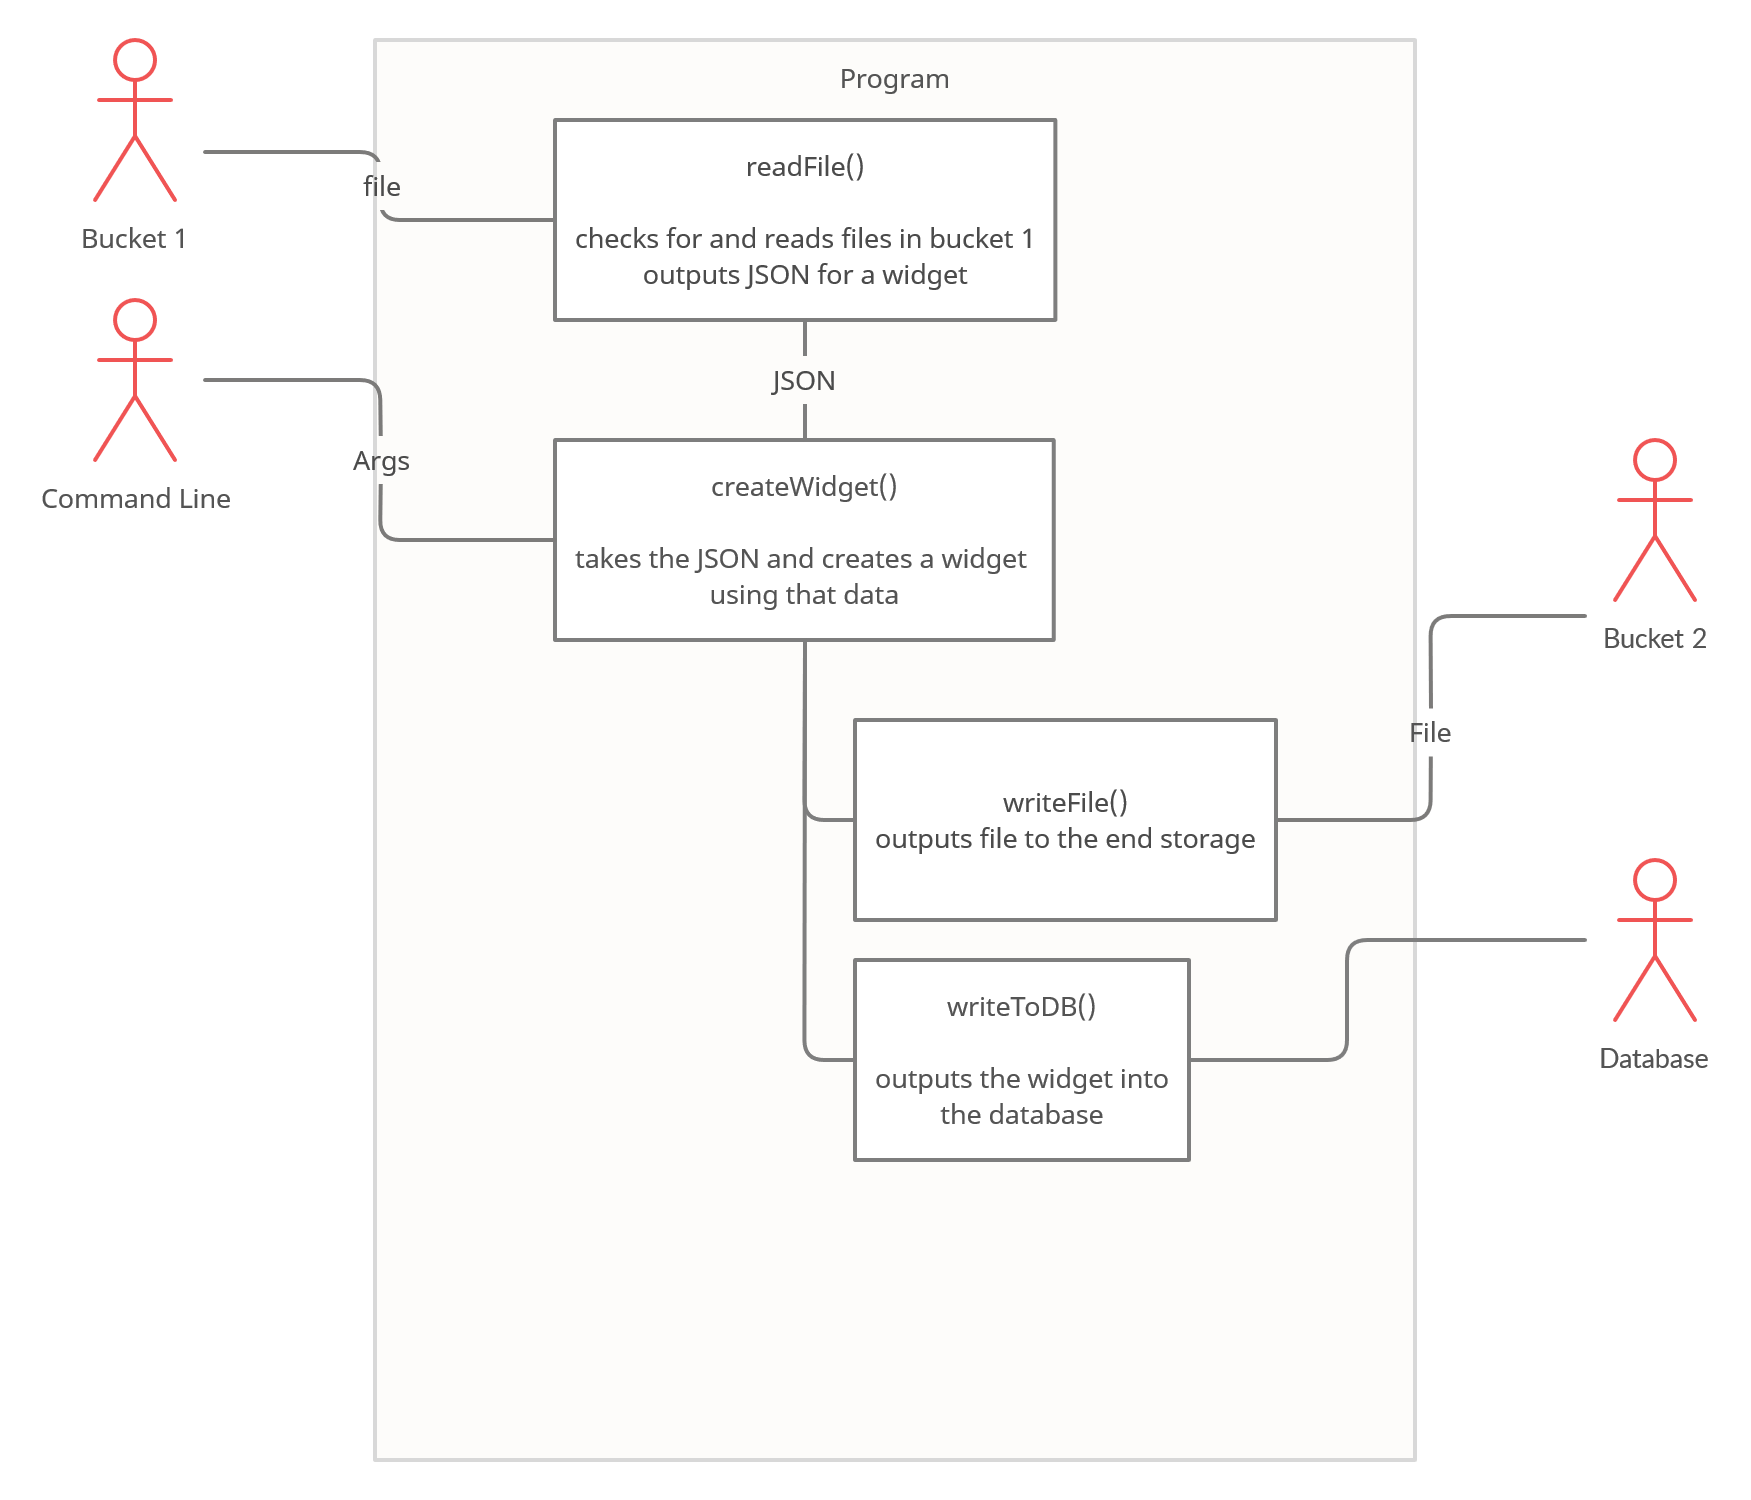
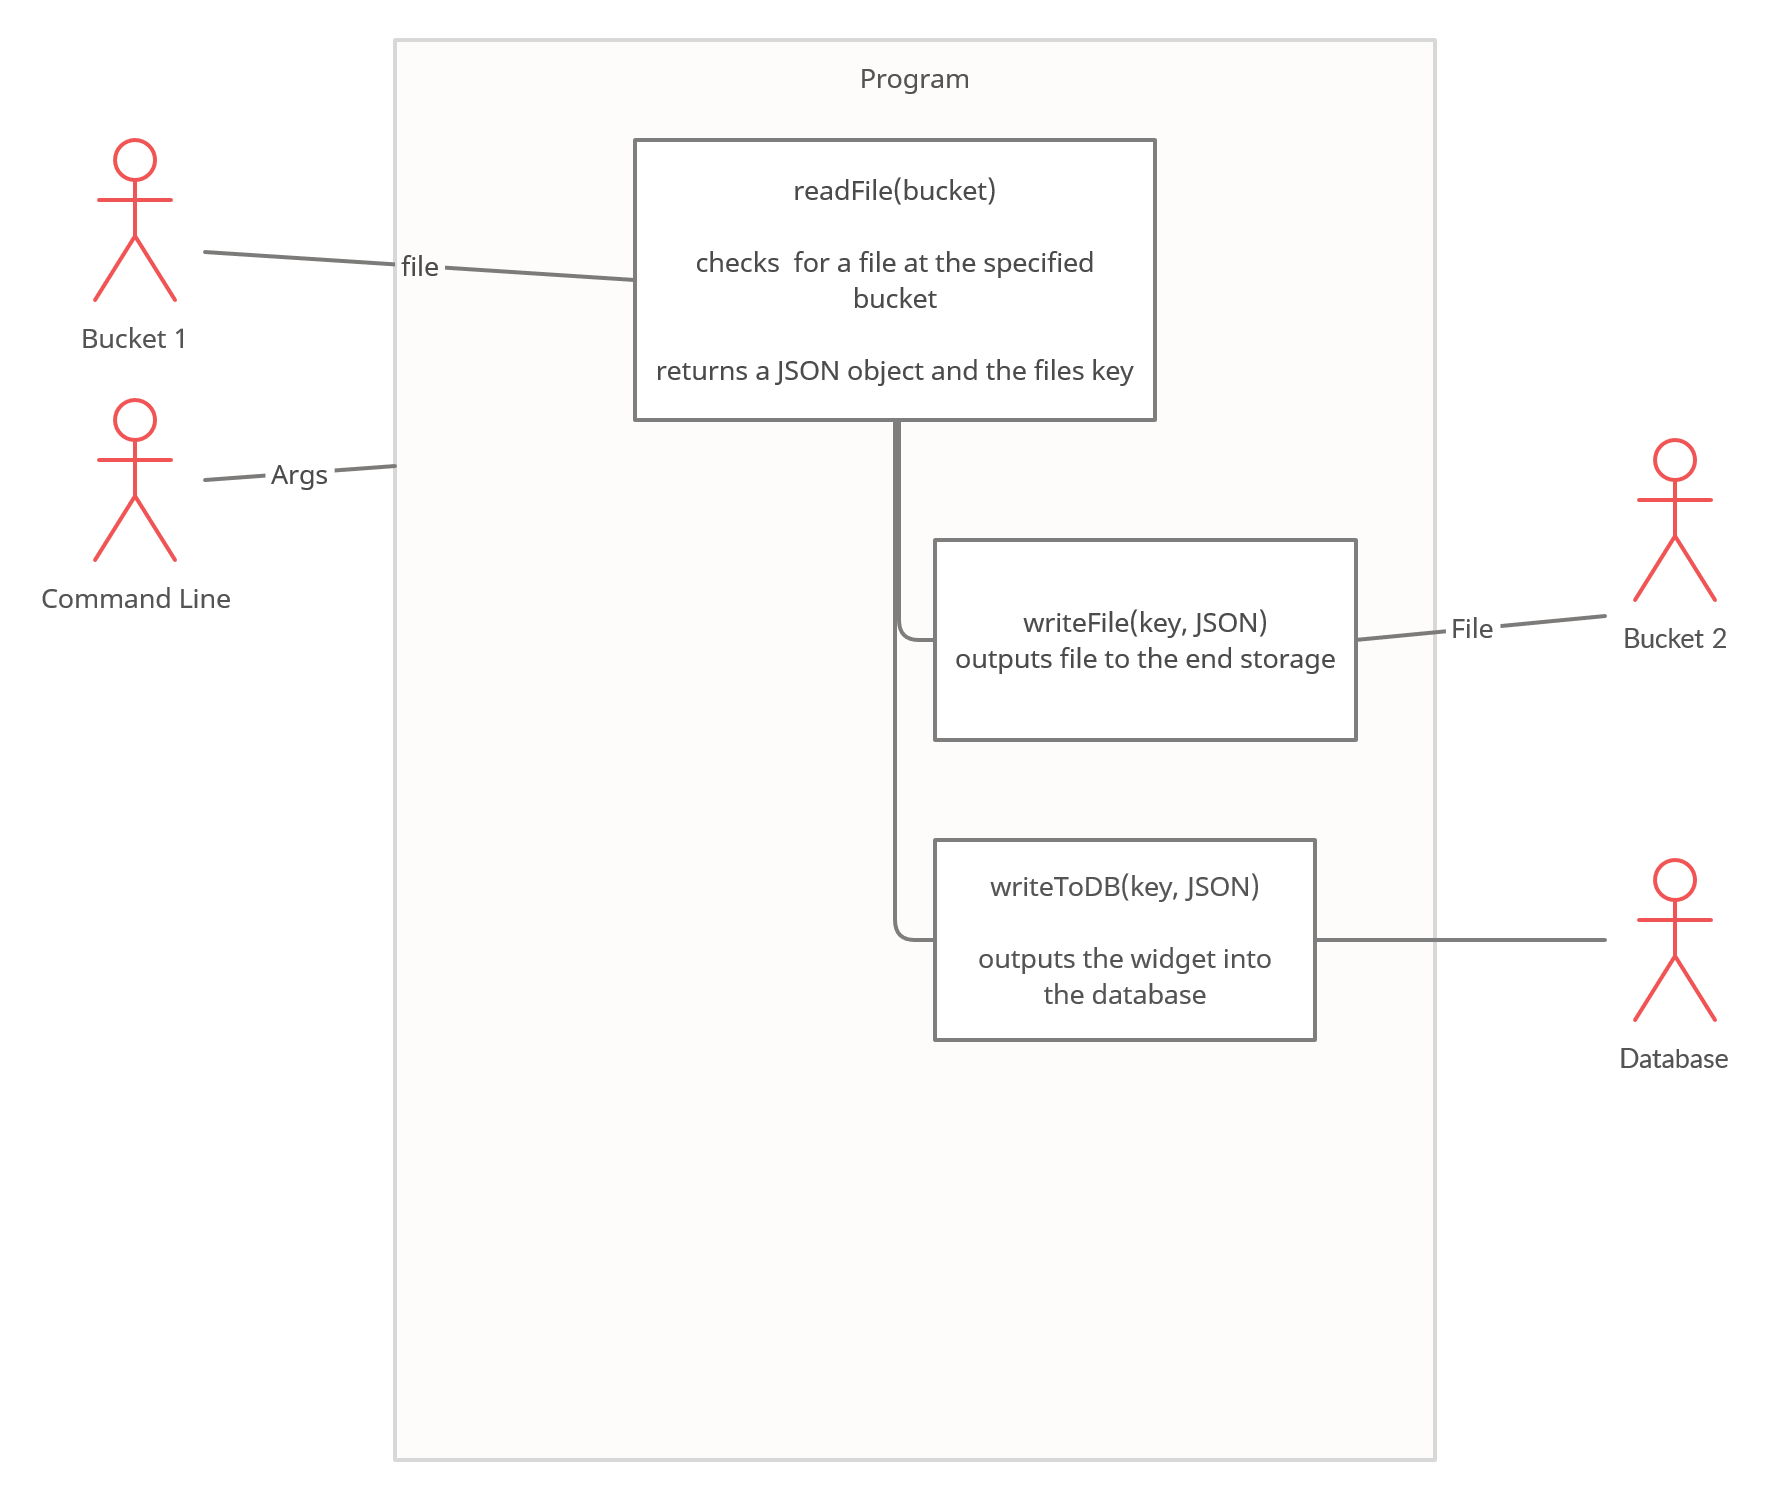
Updated UML diagram and added command line functionality
Command line can specify whether the output is to an s3 bucket or database. There is also a default case if there are no arguments

diff --git a/consumer.py b/consumer.py
@@ -1,10 +1,11 @@
 import boto3
 import json
+import sys
 
-def readFile():
+def readFile(bucket):
     #get all files from the bucket
     s3 = boto3.resource('s3')
-    requests = s3.Bucket('usu-cs5260-hackley-requests')
+    requests = s3.Bucket(bucket)
     allRequests = requests.objects.all()
 
     #get lowest keyed object from the bucket
@@ -22,15 +23,14 @@ def readFile():
 
     return (key,json.loads(body))
 
-def writeFile(key,data):
-    # s3 = boto3.client('s3')
+def writeFile(key,data, bucket):
     s3 = boto3.resource('s3')
     name = data["owner"]
     name = name.replace(" ", "-")
 
     path = "widgets/"+name+"/"+key
 
-    obj = s3.Object('usu-cs5260-hackley-web',path)
+    obj = s3.Object(bucket,path)
     obj.put(Body=json.dumps(data))
 
     print(path)
@@ -38,20 +38,42 @@ def writeFile(key,data):
 def writeToDB():
     print("Writing to DB")
 
-#read the file and return the json object
-info = readFile()
+# syntax for writing to bucket:
+#   {bucket name to read from} bucket {bucket name to write to}
+
+#syntax for writing to database:
+#   {bucket name to read from} db
+
+#use command line arguments
+if len(sys.argv) <= 1:
+    #if no arguments
+    bucket = 'usu-cs5260-hackley-requests'
+    whereTo = 'usu-cs5260-hackley-web'
+    storage = 1
+
+elif sys.argv[2] == "db":
+    bucket = sys.argv[1]
+    storage = 0
+
+elif sys.argv[2] == "bucket":
+    bucket = sys.argv[1]
+    whereTo = sys.argv[3]
+    storage = 1
+
+#read the file and return the json object and key
+info = readFile(bucket)
 key = info[0]
 data = info[1]
 
 #determine what kind of request the json is
 if data["type"] == "create":
-    writeFile(key,data)
+    if storage == 1:
+        writeFile(key,data, whereTo)
+    elif storage == 0:
+        writeToDB()
 
 if data["type"] == "delete":
     print("This was a delete request")
 
 if data["type"] == "change":
     print("This was a change request")
-
-
-# writeToDB()
